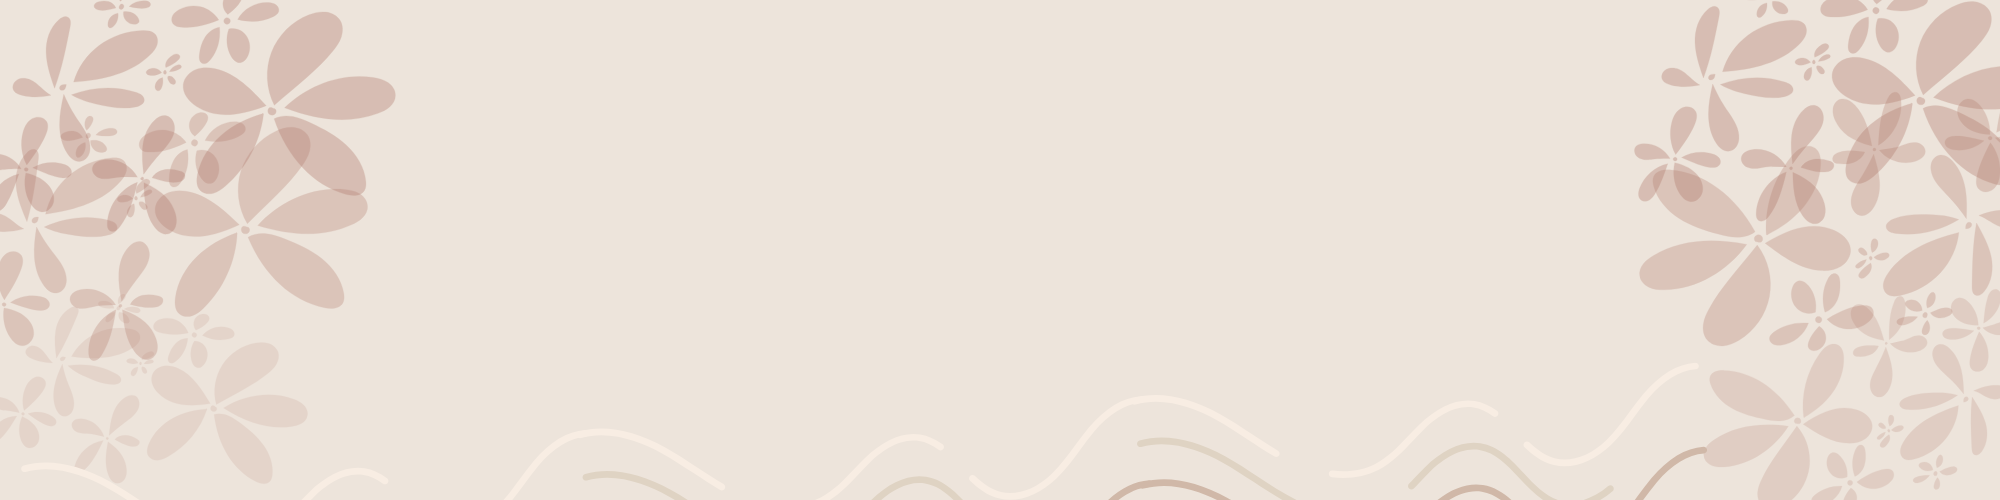
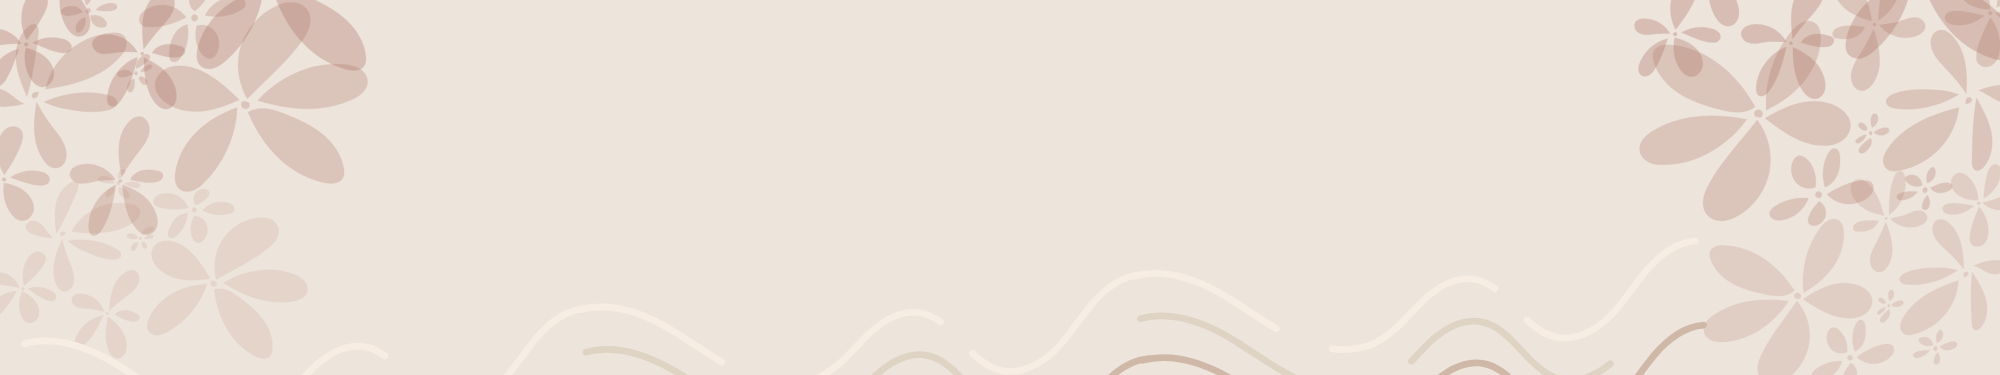
Added image to page yay

diff --git a/budget-goal/src/App.jsx b/budget-goal/src/App.jsx
@@ -22,6 +22,8 @@ function App() {
           </div>
         </div>
       </nav>
+
+      <img src="./public/images/Budget.png" alt="aesthetic top" width="100%"></img>
     </>
   )
 }

diff --git a/budget-goal/src/App.css b/budget-goal/src/App.css
@@ -1,5 +1,5 @@
 #root {
-  background-color: #518682; 
+  background-color: #A8857A; 
   color: white;  
   /*font-size: 50em; */
 }
